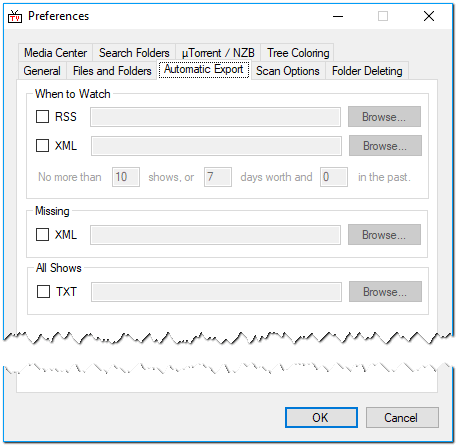
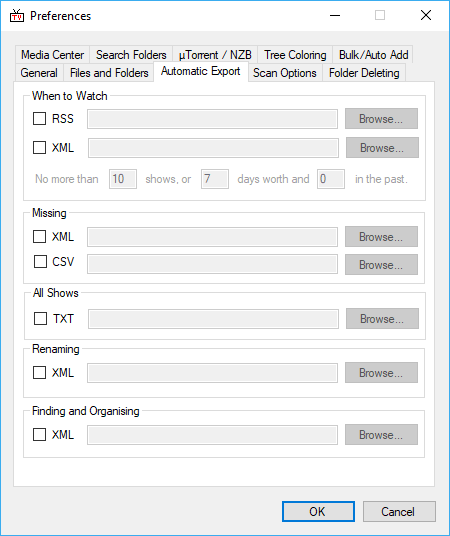
updating prefs auto export

diff --git a/_manual/options/preferences-automatic-export.md b/_manual/options/preferences-automatic-export.md
@@ -8,7 +8,9 @@ Ticking the "XML" box in the "When to watch" section of the panel will save a st
 
 In either case you can limit how many days or shows are written to the file. The files are updated whenever the "When to watch" tab is manually or automatically refreshed.
 
-Ticking the "XML" box in the "Missing" section of the panel will save a standard XML file containing the missing episodes detected during a scan to the location you specify (by typing or browsing)
+Ticking the "XML" box in the "Missing" section of the panel will save a standard XML file containing the missing episodes detected during a scan to the location you specify (by typing or browsing).
+
+Similarly, ticking the "CSV" box in the "Missing" section of the panel will save a standard CSV file containing the missing episodes detected during a scan to the location you specify (by typing or browsing).
 
 Ticking the "TXT" box in the "All Shows" section of the panel will save a TXT file whenever a show is added, edited or deleted from TV Rename. It also gets updated when `Auto ID All` in the *Scan Results* tab of **Tools>Folder Monitor** is clicked.
 
